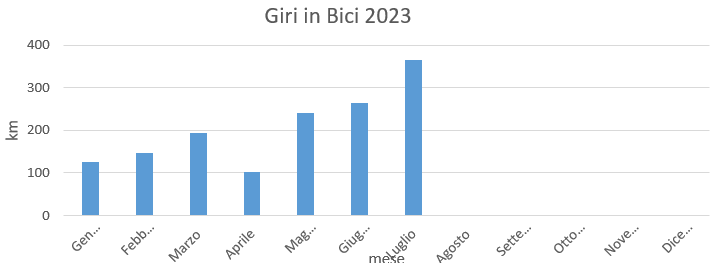
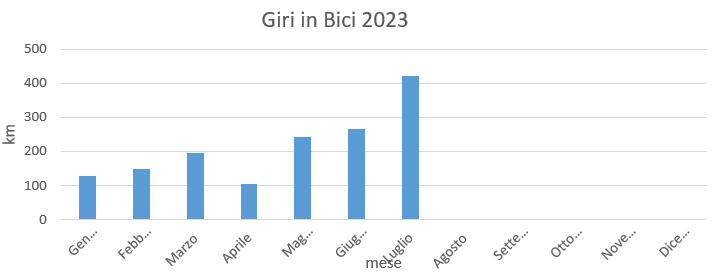
Add files via upload

diff --git a/Statistiche/Statistiche2023.html b/Statistiche/Statistiche2023.html
@@ -47,43 +47,49 @@
         <tr>
             <td>Gennaio</td>
             <td>127</td>
-            <td> 8,79%</td>
+            <td> 8,46%</td>
         </tr>
 
         <tr>
             <td>Febbraio</td>
             <td>148</td>
-            <td>10,24%</td>
+            <td>9,86%</td>
         </tr>
 
         <tr>
             <td>Marzo</td>
             <td>194</td>
-            <td>13,43%</td>
+            <td>12,92%</td>
         </tr>
 
         <tr>
             <td>Aprile</td>
             <td>103</td>
-            <td>7,13%</td>
+            <td>6,86%</td>
         </tr>
 
         <tr>
             <td>Maggio</td>
             <td>242</td>
-            <td>16,75%</td>
+            <td>16,12%</td>
         </tr>
 
         <tr>
             <td>Giugno</td>
             <td>265</td>
-            <td>18,34%</td>
+            <td>17,65%</td>
         </tr>
 
         <tr>
             <td>Luglio</td>
-            <td>366</td>
-            <td>25,33%</td>
+            <td>422</td>
+            <td>28,11%</td>
+        </tr>
+
+        <tr>
+            <td>Agosto</td>
+            <td></td>
+            <td></td>
         </tr>
 
     </table>
@@ -94,10 +100,10 @@
 
     <br>
     <div class="colore">
-        <p>totale km 1.445
+        <p>totale km 1.501
             <img src="../Icone/traguardo.png">
         </p>
-        <p>km medi percorsi 60,21 km </p>
+        <p>km medi percorsi 60,04 km </p>
     </div>
     <br>
 

diff --git a/Statistiche.html b/Statistiche.html
@@ -83,7 +83,7 @@
             </td>
 
             <td>
-                23,80%
+                23,70%
             </td>
 
         </tr>
@@ -99,7 +99,7 @@
             </td>
 
             <td>
-                25,30%
+                25,20%
             </td>
         </tr>
 
@@ -113,7 +113,7 @@
             </td>
 
             <td>
-                36,90%
+                36,70%
             </td>
 
         </tr>
@@ -124,11 +124,11 @@
             </td>
 
             <td>
-                1.445
+                1.501
             </td>
 
             <td>
-                14,00%
+                14,50%
             </td>
 
         </tr>
@@ -143,11 +143,11 @@
 
     <div class="colore">
         <p>
-            totale km fatti 10.323
+            totale km fatti 10.379
             <img src="Icone/traguardo.png">
         </p>
 
-        <p>km medi percorsi 69,75 km </p>
+        <p>km medi percorsi 69,66 km </p>
 
     </div>
 

diff --git a/Estate/Estate2023.html b/Estate/Estate2023.html
@@ -106,15 +106,25 @@
             <td>km</td>
         </tr>
 
+        <tr>
+            <td>29 luglio</td>
+            <td>7</td>
+            <td><a
+                    href="https://www.komoot.com/it-it/tour/1234977962?ref=wtd&share_token=ajUamVcXwWJ07q5yqqwnMARQ6TXY2W60TlQtTsvWazg4000hN3">
+                    San Daniele</a></td>
+            <td>56</td>
+            <td>km</td>
+        </tr>
+
     </table>
 
 
     <br>
     <div class="colore">
-        <p> totale km 428
+        <p> totale km 484
             <img src="../Icone/traguardo.png">
         </p>
-        <p>km medi percorsi 71,33
+        <p>km medi percorsi 69,14
         </p>
     </div>
 </body>

diff --git a/Giri.html b/Giri.html
@@ -242,11 +242,11 @@
     <br>
     <div class="colore">
         <p>
-            totale km fatti 10.323
+            totale km fatti 10.379
             <img src="Icone/traguardo.png">
         </p>
 
-        <p>km medi percorsi 69,75 km </p>
+        <p>km medi percorsi 69,66 km </p>
 
     </div>
 

diff --git a/Estate.html b/Estate.html
@@ -104,7 +104,7 @@
                 </td>
     
                 <td>
-                    428
+                    484
                 </td>
             </tr>
 
